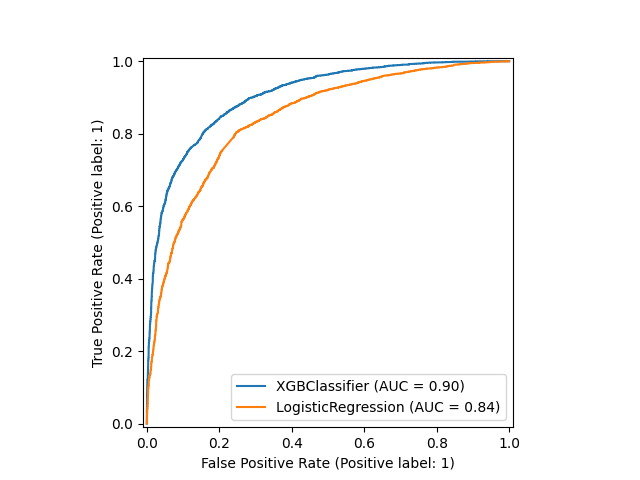
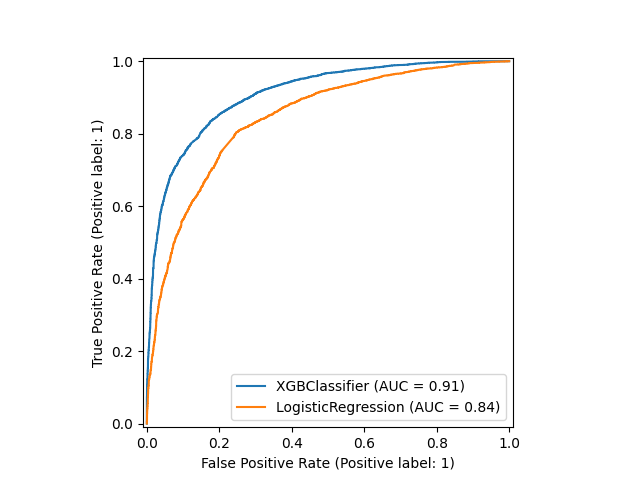
New iteration report

diff --git a/03_Results/Report.md b/03_Results/Report.md
@@ -8,7 +8,7 @@ The following report documents findings from the coding challenge assigned. The 
 2. Data pre-processing overview (`data_prep.py`)
 3. Modelling overview (`modelling.py`)
 4. Results + Other questions
-5. Possible further work
+5. Conclusion
 
 
 # 1. Executive summary
@@ -90,3 +90,96 @@ In order to make our code as modular and clean as possible, we take advantage of
 We follow a pretty standard policy for data splitting, since there is no temporal element to care for. Since classes are well balanced (22542 Negative vs 20832 Positive), we use a regular split, but stratify our samples just for good measure. We **save 20% of the data (8698 examples) for testing**, and the remaining 80% is **split again into testing and validation, with a 20% validation set (27886 testing, 6972 validation)**
 
 The processing pipeline ends by creating the datasets and their labels and saving these csv files. 
+
+# 3. Modelling
+
+The modelling pipeline tries two different classification models, and tunes each of them using the optuna library. We try a vanilla Logistic Regression, which takes only the weight features we created, and we try an XGBoost model, which takes those features plus the tweet's length. We use XGBoost since it offers some of the best preformance out of the box. 
+
+## Metric
+
+**We choose ROC AUC as our metric to optimize for**. Since we do not have a lot of knowledge about this specific problem, we do not care more for precison or recall. As such, AUC is a good metric since we care equally for both classes, the dataset is balanced and we do not prefer recall or precision. 
+
+## Tuning
+
+We use the optuna library to tune both our models, in order to pit the "best" models against eachother. We use a validation dataset to tWhile XGBoost offers a lot of customization, in linear regression we can only really tune regularization parameters. For XGBoost, we search over the following:
+
+```python
+params = {
+        "objective": "binary:logistic",
+        "n_estimators": trial.suggest_int("n_estimators", 50, 500),
+        "verbosity": 0,
+        "learning_rate": trial.suggest_float("learning_rate", 1e-3, 0.1, log=True),
+        "reg_alpha":trial.suggest_float("reg_alpha", 1e-3, 10.0, log=True),
+        "reg_lambda": trial.suggest_float("reg_lambda", 1e-3, 10.0, log=True),
+        "max_depth": trial.suggest_int("max_depth", 1, 10),
+        "subsample": trial.suggest_float("subsample", 0.05, 1.0),
+        "colsample_bytree": trial.suggest_float("colsample_bytree", 0.05, 1.0),
+        "min_child_weight": trial.suggest_int("min_child_weight", 1, 20),
+    }
+```
+
+Our search spaces are defined more by common practice than domain knowledge, using mostly recommended ranges. We carry out 100 tuning trials for both models. 
+
+## Evaluation
+Once the models have been tuned, we calculate the typical binary classification metrics: precision, recall (over positive class), f1 score and AUC. Even though we care for the last metric mainly, it is good practice to calculate all in case we later choose a different one.
+
+
+# 4. Results
+
+We run the proces above for 4 different vocab sizes (number of words in the top N frequency): [100, 500, 1000, 2000]. We choose this values somewhat arbitrarily (this is yet another hyperparameter we could optimize over), but we choose this based on the number of unique words in the dataset (~2200). 
+
+## Model performance
+
+In all cases, XGBoost preformed better then the vanilla Logistic regression. While this does not come as a surprise, it does suggest that even more preformance could be teased out through the correct feature modelling and model tuning. Below we present the ROC curves for all 4 trials, as well as a results table for each N and each metric for each model. 
+
+| Model               | N    | Precision          | Recall             | F1 Score           | ROC AUC            |
+|---------------------|------|--------------------|--------------------|--------------------|--------------------|
+| XGBoost             | 100  | 0.7756 | 0.7689 | 0.7723 | 0.7819  |
+| Logistic Regression | 100  | 0.7511  | 0.6409 | 0.6917 | 0.7226 |
+| XGBoost             | 500  | 0.8095 | 0.7867  | 0.7980 | 0.8081 |
+| Logistic Regression | 500  | 0.7760 | 0.6896 | 0.7303 | 0.7531 |
+| XGBoost             | 1000 | 0.8090 | 0.7967 | 0.8028 | 0.8116 |
+| Logistic Regression | 1000 | 0.7786 | 0.7004 | 0.7374 | 0.7583 |
+| XGBoost             | 2000 | 0.8227 🏆  | 0.8162 🏆| 0.8194 🏆 | 0.8270 🏆 |
+| Logistic Regression | 2000 | 0.7836 | 0.7033 | 0.74123 | 0.7621 |
+
+### ROC for different vocab sizes (N)
+**N = 100**
+![alt](roc_auc_100.png)
+**N = 500**
+![alt](roc_auc_500.png)
+**N = 1000**
+![alt](roc_auc_1000.png)
+**N = 2000**
+![alt](roc_auc_2000.png)
+
+## Effect of vocab size
+
+We experiment to see the effect of vocabulary size on model performance. For both models, increasing the vocabulary size improved performance at test time. While this is not surprising (a larger vocabulary gives more information to the weight features), it suggest there is value in exploring the tweet's text further.
+
+The following graph shows the effect of vocabulary size on the 4 relevant metrics.
+
+![alt](metrics_vs_N.png)
+
+# 5. Conclusion
+
+In general, this was a fun iteration of a simple binary classification problem. There is a lot of room for improvement, but in general it sets a solid foundation for iteration and exploration. 
+
+## What went well, what didn't
+
+### Good: 
+- **Modularity**: The code turned out to be very modular, which mean expanding should be very easy
+- **Model Improvement**: The proposed model was better than a vanilla model (and than random guessing)
+- **Good practices**: The process follows ML good practices on validation and testing, model comparison, etc. 
+### Bad:
+- **Simplicity**: The exploration is quite simplistic, and there is not a lot of feature engineering or model testing, which could have yielded better results
+- **Imperfect replicability**: Although we tried to keep the process as replicable as possible (see random states of splits), we missed some random states on the optimization and model creation steps.
+- **Express NLP**: While we follow standard NLP procedures, we miss some stop words (such as `im`). The NLP pipeline can be improved. 
+
+
+## Possible improvements and future work
+We identify the following 3 actionable improvements over this project:
+
+1. **Feature engineering**: We did not use the "Entity" column, which could have been used through some encoding procedure as a feature. Other features were not explored. 
+2. **Model exploration**: We tried only 1 model (XGBoost). Although a good choice, it might have been worth it to try a broader set of models
+3. **Advanced NLP + Transformers**: We do not leverage SOTA NLP techniques (word embeddings) which could generate some other interesting features. On the same note, we could implement SOTA Transformer models such as BERT to try to get a better performance. 
